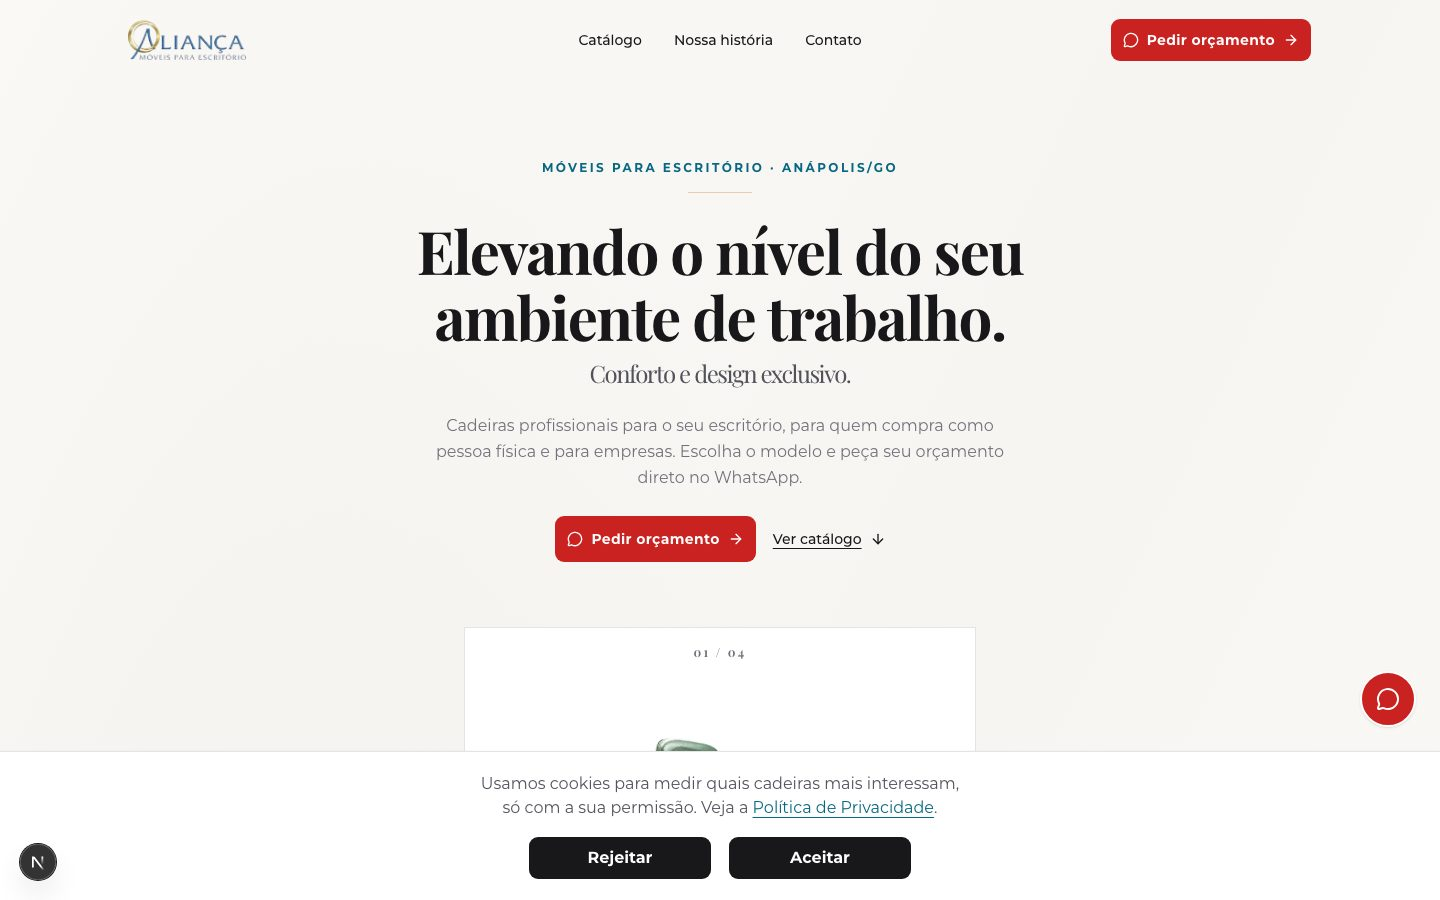
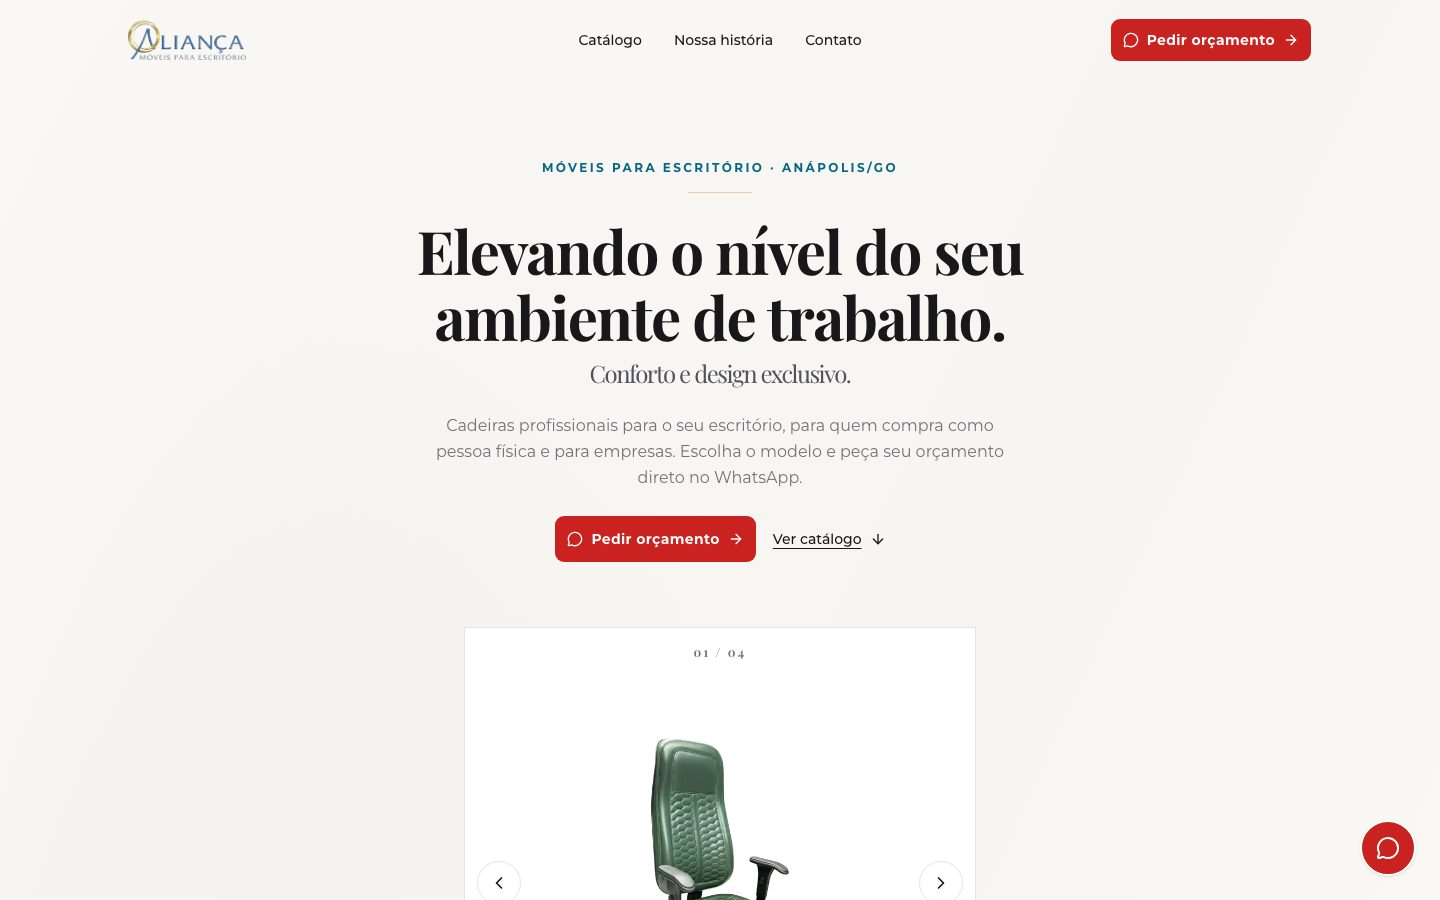
fix: robust shots script and non-vacuous image test

diff --git a/scripts/shots.ts b/scripts/shots.ts
@@ -1,5 +1,14 @@
+/**
+ * Gera public/projects/<id>.jpg.
+ * Tenta o site ao vivo; se falhar (ou nao houver URL), sobe `npm run dev` DENTRO do projeto irmao.
+ * Aviso: isso pode criar/atualizar `.next/` e arquivos gerados nos projetos irmaos
+ * (next-env.d.ts, tsbuildinfo). Nenhum codigo-fonte e editado.
+ * Raiz dos irmaos: env SHOTS_ROOT (padrao ~/DevWeb).
+ */
 import { spawn, type ChildProcess } from 'node:child_process';
+import { existsSync } from 'node:fs';
 import { mkdir } from 'node:fs/promises';
+import net from 'node:net';
 import os from 'node:os';
 import path from 'node:path';
 import { chromium, type Browser } from '@playwright/test';
@@ -11,7 +20,7 @@ interface Target {
   port: number;
 }
 
-const devRoot = path.join(os.homedir(), 'DevWeb');
+const devRoot = process.env.SHOTS_ROOT ?? path.join(os.homedir(), 'DevWeb');
 const landings = path.join(devRoot, 'landings');
 const outDir = path.join(process.cwd(), 'public', 'projects');
 
@@ -25,24 +34,75 @@ const targets: readonly Target[] = [
   { id: 'winner', dir: path.join(devRoot, 'winner-tech'), live: null, port: 3107 },
 ];
 
-async function waitFor(url: string, ms = 90_000): Promise<boolean> {
+const children = new Set<ChildProcess>();
+
+function killGroup(child: ChildProcess, signal: NodeJS.Signals): void {
+  if (!child.pid) return;
+  try {
+    process.kill(-child.pid, signal);
+  } catch {
+    /* ESRCH: ja encerrado */
+  }
+}
+
+async function stopChild(child: ChildProcess): Promise<void> {
+  killGroup(child, 'SIGTERM');
+  await new Promise((r) => setTimeout(r, 1500));
+  killGroup(child, 'SIGKILL');
+  children.delete(child);
+}
+
+function killAllSync(): void {
+  for (const child of children) killGroup(child, 'SIGKILL');
+}
+
+process.on('exit', killAllSync);
+for (const sig of ['SIGINT', 'SIGTERM'] as const) {
+  process.on(sig, () => {
+    killAllSync();
+    process.exit(130);
+  });
+}
+
+function portIsFree(port: number): Promise<boolean> {
+  return new Promise((resolve) => {
+    const probe = net.createServer();
+    probe.once('error', () => resolve(false));
+    probe.listen(port, () => probe.close(() => resolve(true)));
+  });
+}
+
+async function waitFor(url: string, exited: () => string | null, ms = 90_000): Promise<void> {
   const end = Date.now() + ms;
   while (Date.now() < end) {
+    const reason = exited();
+    if (reason) throw new Error(reason);
     try {
       const res = await fetch(url);
-      if (res.ok) return true;
+      if (res.ok) return;
     } catch {
       /* servidor ainda subindo */
     }
     await new Promise((r) => setTimeout(r, 1000));
   }
-  return false;
+  throw new Error('dev server timeout');
 }
+
+// Esconde o indicador do Next so na pagina fotografada; nada e escrito no repo alvo.
+const hideDevIndicator = 'nextjs-portal { display: none !important; }';
 
 async function capture(browser: Browser, url: string, file: string): Promise<void> {
   const page = await browser.newPage({ viewport: { width: 1440, height: 900 } });
   try {
-    await page.goto(url, { waitUntil: 'networkidle', timeout: 45_000 });
+    const response = await page.goto(url, { waitUntil: 'networkidle', timeout: 45_000 });
+    if (!response?.ok()) throw new Error(`HTTP ${response?.status() ?? 'sem resposta'} em ${url}`);
+    await page.addStyleTag({ content: hideDevIndicator });
+    const consent = page.getByRole('button', { name: /recusar|aceitar|reject|accept/i }).first();
+    try {
+      await consent.click({ timeout: 2_000 });
+    } catch {
+      /* sem banner de cookies */
+    }
     await page.waitForTimeout(1500);
     await page.screenshot({ path: file, type: 'jpeg', quality: 82 });
   } finally {
@@ -51,17 +111,29 @@ async function capture(browser: Browser, url: string, file: string): Promise<voi
 }
 
 async function viaLocal(browser: Browser, target: Target, file: string): Promise<void> {
+  if (!existsSync(target.dir)) throw new Error(`diretorio inexistente: ${target.dir}`);
+  if (!(await portIsFree(target.port))) {
+    throw new Error(`porta ${target.port} ja esta em uso; libere antes de rodar`);
+  }
   const child: ChildProcess = spawn('npm', ['run', 'dev', '--', '-p', String(target.port)], {
     cwd: target.dir,
     stdio: 'ignore',
     detached: true,
   });
+  children.add(child);
+  let exitReason: string | null = null;
+  child.once('exit', (code, signal) => {
+    exitReason = `dev server encerrou (code=${String(code)} signal=${String(signal)})`;
+  });
+  child.once('error', (err) => {
+    exitReason = `falha ao iniciar dev server: ${err.message}`;
+  });
   try {
     const url = `http://localhost:${target.port}`;
-    if (!(await waitFor(url))) throw new Error('dev server timeout');
+    await waitFor(url, () => exitReason);
     await capture(browser, url, file);
   } finally {
-    if (child.pid) process.kill(-child.pid);
+    await stopChild(child);
   }
 }
 
@@ -69,28 +141,38 @@ async function main(): Promise<void> {
   await mkdir(outDir, { recursive: true });
   const browser = await chromium.launch();
   const failed: string[] = [];
+  const missing: string[] = [];
 
-  for (const target of targets) {
-    const file = path.join(outDir, `${target.id}.jpg`);
-    try {
-      if (!target.live) throw new Error('sem URL ao vivo');
-      await capture(browser, target.live, file);
-      console.log(`ok   ${target.id} (ao vivo)`);
-      continue;
-    } catch (liveError) {
-      console.warn(`warn ${target.id}: ao vivo falhou (${String(liveError)}), tentando local`);
+  try {
+    for (const target of targets) {
+      const file = path.join(outDir, `${target.id}.jpg`);
+      if (target.live) {
+        try {
+          await capture(browser, target.live, file);
+          console.log(`ok   ${target.id} (ao vivo)`);
+          continue;
+        } catch (liveError) {
+          console.warn(`warn ${target.id}: ao vivo falhou (${String(liveError)}), tentando local`);
+        }
+      }
+      try {
+        await viaLocal(browser, target, file);
+        console.log(`ok   ${target.id} (local)`);
+      } catch (localError) {
+        failed.push(target.id);
+        if (!existsSync(file)) missing.push(target.id);
+        console.warn(`FAIL ${target.id}: ${String(localError)}. Print anterior mantido, se existir.`);
+      }
     }
-    try {
-      await viaLocal(browser, target, file);
-      console.log(`ok   ${target.id} (local)`);
-    } catch (localError) {
-      failed.push(target.id);
-      console.warn(`FAIL ${target.id}: ${String(localError)}. Print anterior mantido, se existir.`);
-    }
+  } finally {
+    await browser.close();
   }
 
-  await browser.close();
   if (failed.length > 0) console.warn(`Sem print novo: ${failed.join(', ')}`);
+  if (missing.length > 0) {
+    console.error(`Sem nenhum print: ${missing.join(', ')}`);
+    process.exitCode = 1;
+  }
 }
 
 main().catch((error: unknown) => {

diff --git a/tests/e2e/projects.spec.ts b/tests/e2e/projects.spec.ts
@@ -23,10 +23,21 @@ test('links externos abrem em nova aba com rel seguro', async ({ page }) => {
 
 test('nenhuma imagem de projeto quebrada (print ou placeholder)', async ({ page }) => {
   await page.goto('/pt');
-  await page.locator('#projects').scrollIntoViewIfNeeded();
-  await page.waitForLoadState('networkidle');
-  const broken = await page.locator('[data-testid="project-card"] img').evaluateAll((imgs) =>
-    imgs.filter((i) => (i as HTMLImageElement).complete && (i as HTMLImageElement).naturalWidth === 0).length,
-  );
-  expect(broken).toBe(0);
+  const cards = page.getByTestId('project-card');
+  const imgs = page.locator('[data-testid="project-card"] img');
+  const imgCount = await imgs.count();
+  const placeholderCount = await page.locator('[data-testid="project-card"]:not(:has(img))').count();
+  expect(imgCount).toBeGreaterThanOrEqual(1);
+  expect(imgCount + placeholderCount).toBe(7);
+  await expect(cards).toHaveCount(7);
+
+  // lazy loading: forca cada imagem a carregar
+  for (let i = 0; i < imgCount; i++) {
+    await imgs.nth(i).scrollIntoViewIfNeeded();
+  }
+  await expect
+    .poll(() => imgs.evaluateAll((els) => els.every((e) => (e as HTMLImageElement).complete)))
+    .toBe(true);
+  const widths = await imgs.evaluateAll((els) => els.map((e) => (e as HTMLImageElement).naturalWidth));
+  for (const w of widths) expect(w).toBeGreaterThan(0);
 });
